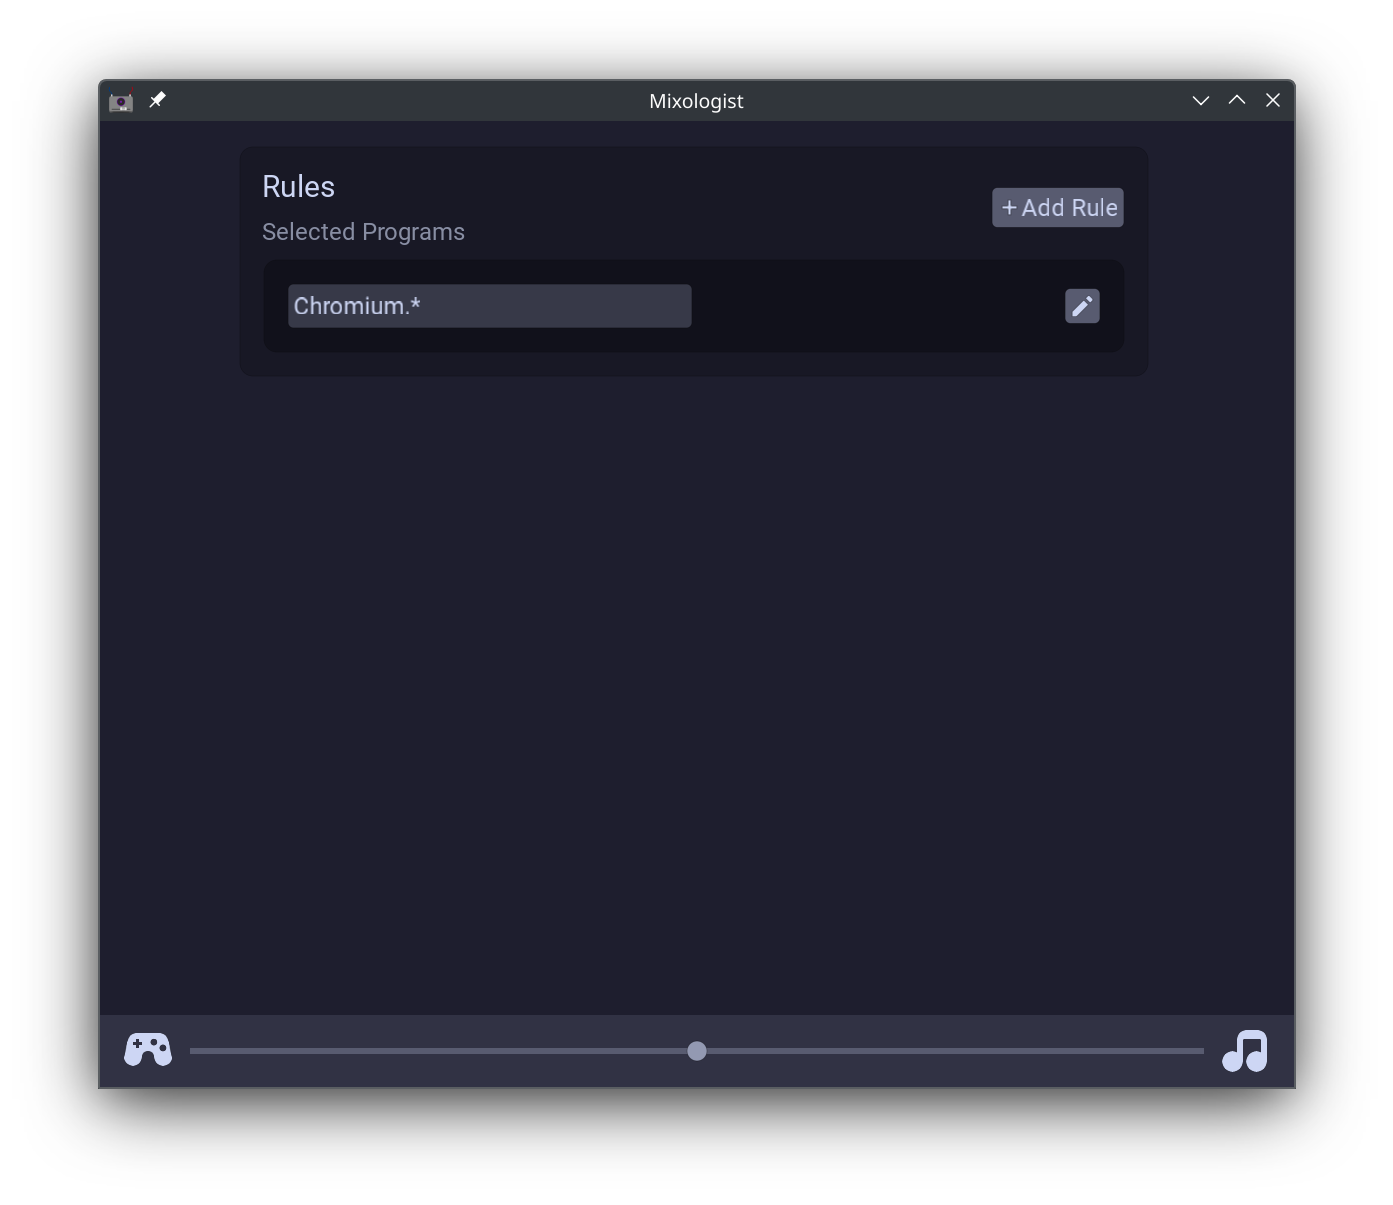
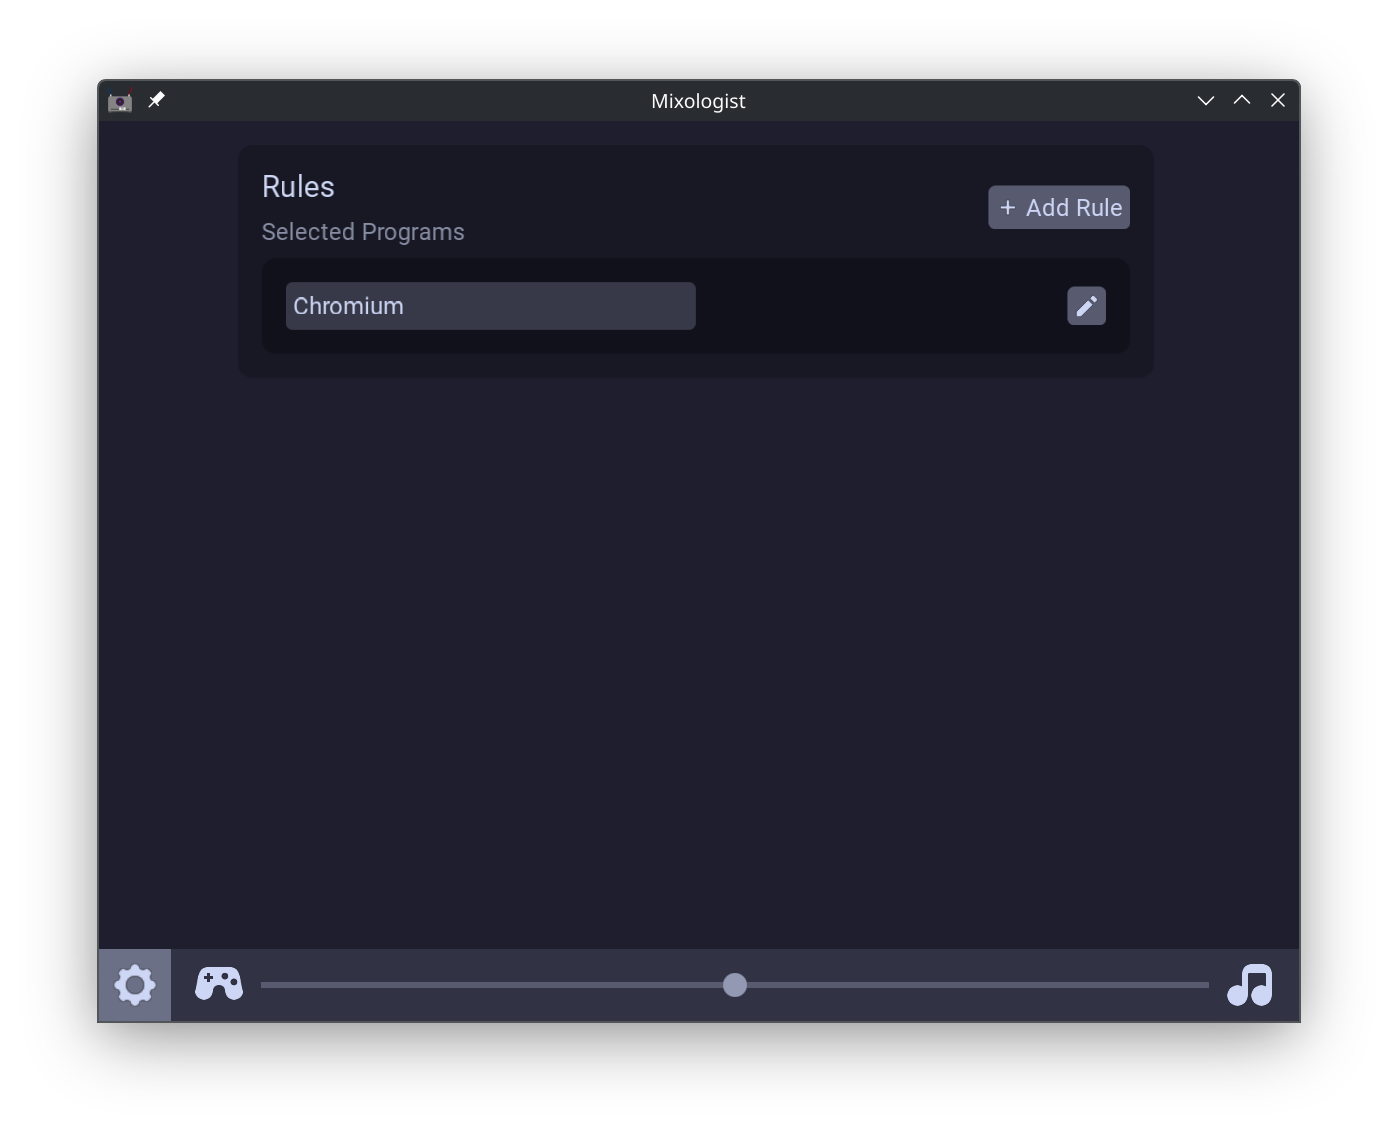
[readme] documentation updates

Changed region(s): [[0.0309, 0.0307, 0.9569, 0.9526], [0.1852, 0.1536, 0.4939, 0.3073], [0.71, 0.1536, 0.8026, 0.3073]]

diff --git a/README.md b/README.md
@@ -27,6 +27,7 @@ Mixologist can be installed via the latest
 ### Building from Source
 Dependencies:
 - [Odin](https://odin-lang.org)
+- `libdbus`
 - `libpipewire`
 - `sdl3`
 - `sdl3_ttf`
@@ -81,20 +82,32 @@ This is currently a JSON file of the following structure:
 ```json
 {
 	"rules": [
-		"Chromium.*"
+		"Chromium"
 	],
-    "start_minimized": false
+	"settings": {
+		"volume_falloff": 1,
+		"start_minimized": true,
+		"remember_volume": true
+	}
 }
 ```
-This represent the set of programs you wish to isolate.
-The config file is hot-reloaded and can be modified by
-`mixologist`, the GUI or just editing it with your favorite
-text editor.
+The rules represent the set of programs you wish to isolate.
+The config file is hot-reloaded and can be modified by the 
+GUI or just editing it with your favorite text editor.
+
+Volume falloff controls the curve used to set sink volumes
+and is one of the following:
+- Linear (default) -> 0
+- Quadratic -> 1
+- Power -> 2
+- Cubic -> 3
+
+Set the corrsponding *numeric* value in the config file.
 
 ## Planned Features
 - [x] GUI
 - [x] Flatpak distribution (GUI-only)
-- [ ] Proper settings menu
+- [x] Proper settings menu
 - [ ] Revamped theming system
 - [ ] Improved Packaging for:
     - Debian
